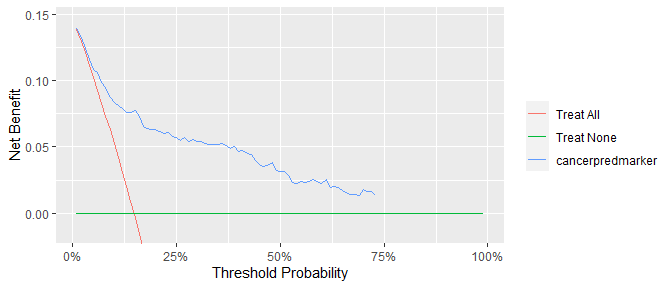
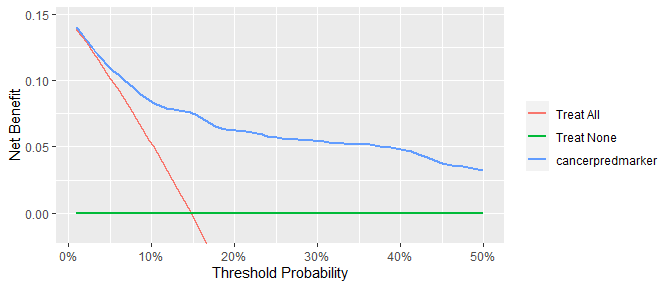
updates

diff --git a/README.md b/README.md
@@ -35,9 +35,11 @@ To assess models predicting binary endpoints.
 ``` r
 library(dcurves)
 
-dca(cancer ~ cancerpredmarker, data = df_binary)
+dca(cancer ~ cancerpredmarker, 
+    data = df_binary,
+    thresholds = seq(0, 0.35, 0.01)) %>%
+  autoplot(smooth = TRUE)
 #> Assuming '1' is [Event] and '0' is [non-Event]
-#> Printing with `autoplot(x, type = 'net_benefit', smooth = FALSE)`
 ```
 
 <img src="man/figures/README-example1-1.png" width="100%" />
@@ -45,8 +47,10 @@ dca(cancer ~ cancerpredmarker, data = df_binary)
 Time-to-event or survival endpoints
 
 ``` r
-dca(Surv(ttcancer, cancer) ~ cancerpredmarker, data = df_surv, time = 1)
-#> Printing with `autoplot(x, type = 'net_benefit', smooth = FALSE)`
+dca(Surv(ttcancer, cancer) ~ cancerpredmarker, 
+    data = df_surv, time = 1,
+    thresholds = seq(0, 0.50, 0.01)) %>%
+  autoplot(smooth = TRUE)
 ```
 
 <img src="man/figures/README-example2-1.png" width="100%" />
